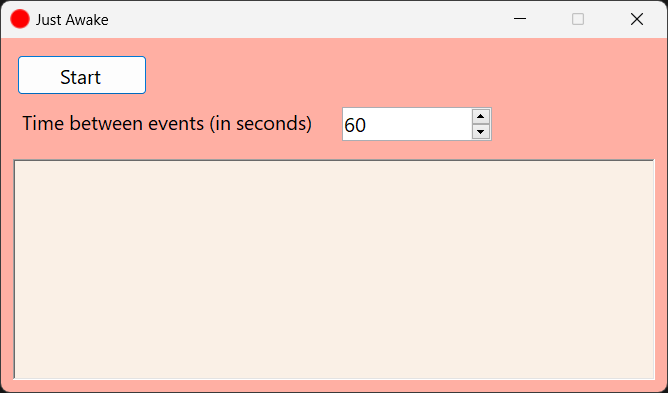
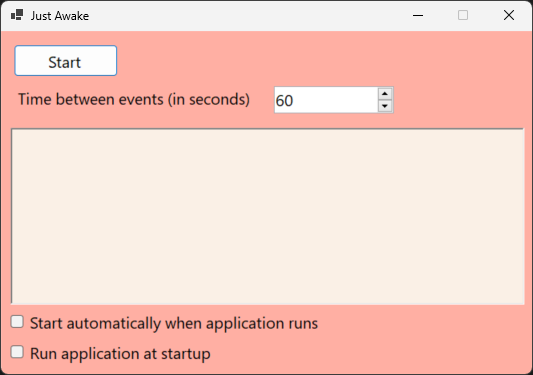
add settings

Changed region(s): [[0.0, 0.0, 1.0, 0.9973]]

diff --git a/App/Form1.cs b/App/Form1.cs
@@ -1,4 +1,6 @@
+using Microsoft.Win32;
 using System.Resources;
+using System.Text.Json;
 using User32Wrapper;
 
 namespace App;
@@ -6,11 +8,12 @@ namespace App;
 public partial class Form1 : Form
 {
     const int LogsLimit = 100;
-
+    
+    private Settings _settings;
     private readonly NotifyIcon _notifyIcon = new();
     private readonly ResourceManager _resources = new(typeof(Form1));
     private readonly ContextMenuStrip _iconMenu = new();
-    private readonly Icon _appIcon;
+    private Icon _appIcon;
     private readonly System.Windows.Forms.Timer _timer = new();
     private readonly Queue<DateTime> _timestamps = new();
     private TimerState _timerState = TimerState.Stopped;
@@ -31,8 +34,6 @@ public partial class Form1 : Form
     public Form1()
     {
         InitializeComponent();
-        _appIcon = (_resources.GetObject("AppIcon") as Icon)!;
-        Icon = _appIcon;
 
         btnStop.Location = btnStart.Location;
         btnStop.Visible = false;
@@ -43,6 +44,7 @@ public partial class Form1 : Form
         btnStart.Click += BtnStart_Click;
         btnStop.Click += BtnStop_Click;
         FormClosing += Form1_FormClosing;
+        Load += Form1_Load;
 
         var menuStart = new ToolStripMenuItem("Start");
         menuStart.Name = "Start";
@@ -56,11 +58,49 @@ public partial class Form1 : Form
         var menuExit = new ToolStripMenuItem("Exit");
         menuExit.Click += MenuExit_Click;
         _iconMenu.Items.Add(menuExit);
+    }
+
+    private void Form1_Load(object? sender, EventArgs e)
+    {
+        LoadSettings();
+
+        _appIcon = (_resources.GetObject("AppIcon") as Icon)!;
+        Icon = _appIcon;
+
+        chkAutoStart.Checked = _settings!.AutoStart;
+        chkAutoStart.CheckedChanged += ChkAutoStart_CheckedChanged;
+        chkRunAtStartup.Checked = _settings!.RunAtStartup;
+        chkRunAtStartup.CheckedChanged += ChkRunAtStartup_CheckedChanged;
 
         _notifyIcon.Icon = _appIcon;
         _notifyIcon.Visible = true;
         _notifyIcon.ContextMenuStrip = _iconMenu;
         _notifyIcon.DoubleClick += NotifyIcon_DoubleClick;
+
+        if (_settings.AutoStart)
+            BtnStart_Click(null, new EventArgs());
+
+        if (_settings.AutoStart)
+        {
+            Visible = false;
+            ShowInTaskbar = false;
+        }
+    }
+
+    private void ChkRunAtStartup_CheckedChanged(object? sender, EventArgs e)
+    {
+        if (chkRunAtStartup.Checked)
+            RunAtStartup();
+        else
+            DontRunAtStartup();
+        _settings.RunAtStartup = chkRunAtStartup.Checked;
+        SaveSettings();
+    }
+
+    private void ChkAutoStart_CheckedChanged(object? sender, EventArgs e)
+    {
+        _settings.AutoStart = chkAutoStart.Checked;
+        SaveSettings();
     }
 
     private void MenuExit_Click(object? sender, EventArgs e)
@@ -71,6 +111,7 @@ public partial class Form1 : Form
     private void NotifyIcon_DoubleClick(object? sender, EventArgs e)
     {
         Show();
+        ShowInTaskbar = true;
     }
 
     private void Form1_FormClosing(object? sender, FormClosingEventArgs e)
@@ -120,6 +161,40 @@ public partial class Form1 : Form
         _timestamps.Enqueue(DateTime.Now);
         var logs = _timestamps.Select(x => $"Mouse event sent at {x:dd/MM/yyyy HH:mm:ss}.");
         txtLogs.Text = string.Join("\r\n", logs);
+    }
+
+    private void LoadSettings()
+    {
+        var path = Path.Join(Path.GetDirectoryName(Application.ExecutablePath), "settings.json");
+        if (!File.Exists(path))
+            File.WriteAllText(path, "{}");
+        var file = File.Open(path, FileMode.Open, FileAccess.Read);
+        var reader = new StreamReader(file);
+        var content = reader.ReadToEnd();
+        file.Close();
+
+        _settings = JsonSerializer.Deserialize<Settings>(content)!;
+    }
+
+    private void SaveSettings()
+    {
+        var path = Path.Join(Path.GetDirectoryName(Application.ExecutablePath), "settings.json");
+        var content = JsonSerializer.Serialize(_settings);
+        File.WriteAllText(path, content);
+    }
+
+    private void RunAtStartup()
+    {
+        using var key = Registry.CurrentUser.OpenSubKey("SOFTWARE\\Microsoft\\Windows\\CurrentVersion\\Run", true)!;
+        key.SetValue(Application.ProductName, $"\"{Application.ExecutablePath}\"");
+        key.Close();
+    }
+
+    private void DontRunAtStartup()
+    {
+        using var key = Registry.CurrentUser.OpenSubKey("SOFTWARE\\Microsoft\\Windows\\CurrentVersion\\Run", true)!;
+        key.DeleteValue(Application.ProductName!, false);
+        key.Close();
     }
 }
 

diff --git a/App/Form1.Designer.cs b/App/Form1.Designer.cs
@@ -33,6 +33,8 @@ partial class Form1
         txtLogs = new RichTextBox();
         numInterval = new NumericUpDown();
         label1 = new Label();
+        chkAutoStart = new CheckBox();
+        chkRunAtStartup = new CheckBox();
         ((System.ComponentModel.ISupportInitialize)numInterval).BeginInit();
         SuspendLayout();
         // 
@@ -86,11 +88,33 @@ partial class Form1
         label1.TabIndex = 4;
         label1.Text = "Time between events (in seconds)";
         // 
+        // chkAutoStart
+        // 
+        chkAutoStart.AutoSize = true;
+        chkAutoStart.Location = new Point(12, 348);
+        chkAutoStart.Name = "chkAutoStart";
+        chkAutoStart.Size = new Size(394, 32);
+        chkAutoStart.TabIndex = 5;
+        chkAutoStart.Text = "Start automatically when application runs";
+        chkAutoStart.UseVisualStyleBackColor = true;
+        // 
+        // chkRunAtStartup
+        // 
+        chkRunAtStartup.AutoSize = true;
+        chkRunAtStartup.Location = new Point(12, 386);
+        chkRunAtStartup.Name = "chkRunAtStartup";
+        chkRunAtStartup.Size = new Size(260, 32);
+        chkRunAtStartup.TabIndex = 6;
+        chkRunAtStartup.Text = "Run application at startup";
+        chkRunAtStartup.UseVisualStyleBackColor = true;
+        // 
         // Form1
         // 
         AutoScaleDimensions = new SizeF(11F, 28F);
         AutoScaleMode = AutoScaleMode.Font;
-        ClientSize = new Size(666, 354);
+        ClientSize = new Size(666, 430);
+        Controls.Add(chkRunAtStartup);
+        Controls.Add(chkAutoStart);
         Controls.Add(label1);
         Controls.Add(numInterval);
         Controls.Add(txtLogs);
@@ -114,4 +138,6 @@ partial class Form1
     private RichTextBox txtLogs;
     private NumericUpDown numInterval;
     private Label label1;
+    private CheckBox chkAutoStart;
+    private CheckBox chkRunAtStartup;
 }

diff --git a/App/Settings.cs b/App/Settings.cs
@@ -1,0 +1,14 @@
+using System;
+using System.Collections.Generic;
+using System.Linq;
+using System.Text;
+using System.Threading.Tasks;
+
+namespace App
+{
+    public class Settings
+    {
+        public bool AutoStart { get; set; }
+        public bool RunAtStartup { get; set; }
+    }
+}

diff --git a/README.md b/README.md
@@ -7,8 +7,11 @@ Just press *Start*. The application will start to send input events periodically
 
 ![The Application](Images/App.png)
 
+* Check <em>Start automatically when application runs</em> if you want the application to start sending events in the background automatically.
+* Check <em>Run application at startup</em> if you want the application to run when you start your computer.
+
 > Closing the window will only hide the app!
 
-To close the application go to System Tray, Right Click on the icon and click *Exit*.
+To close the application go to System Tray, Right Click on the icon and click <em>Exit</em>.
 
 ![System Tray](Images/SystemTray.png)
